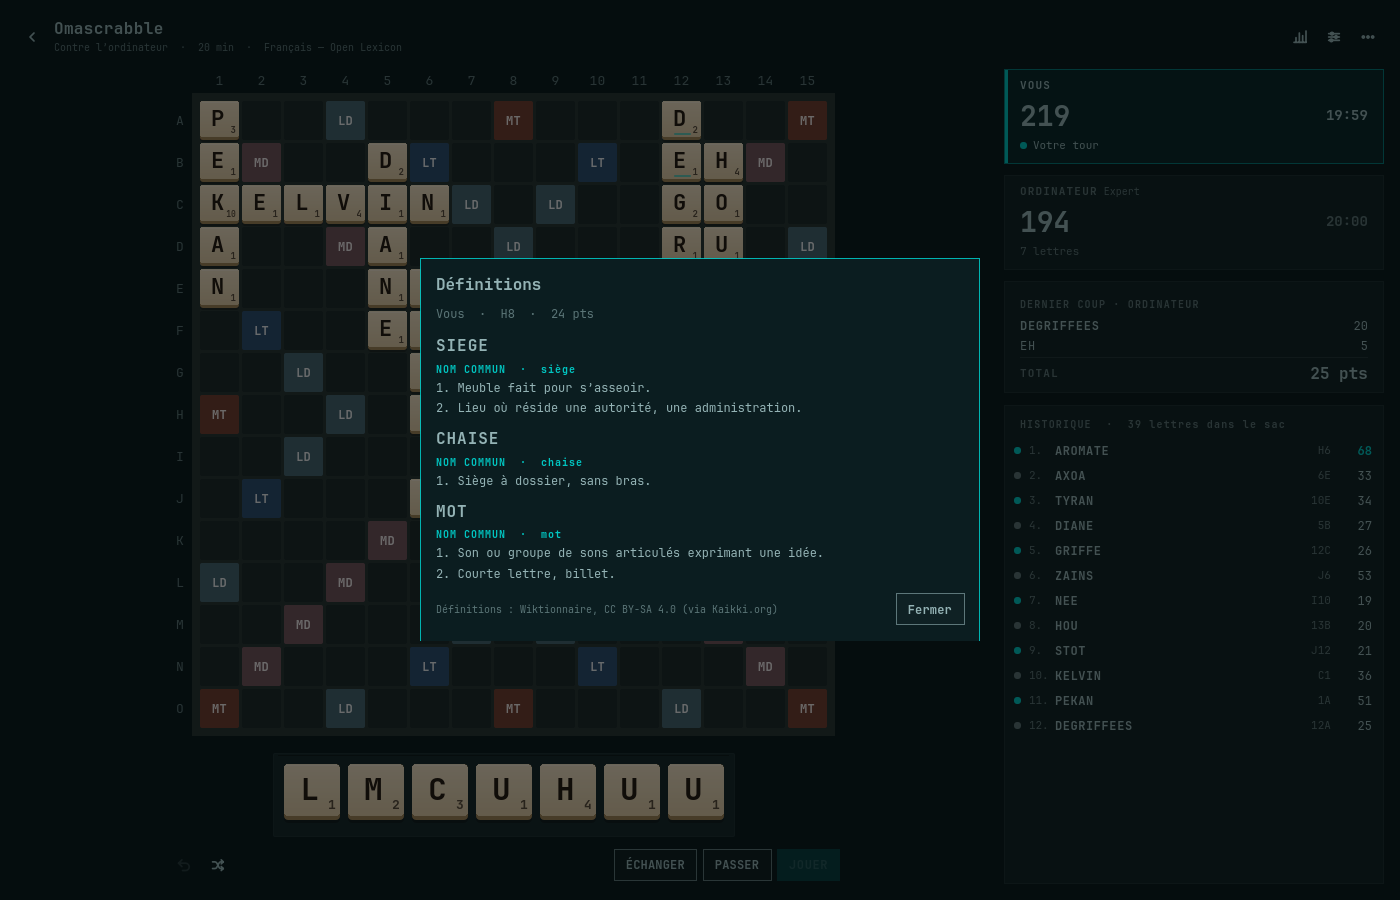
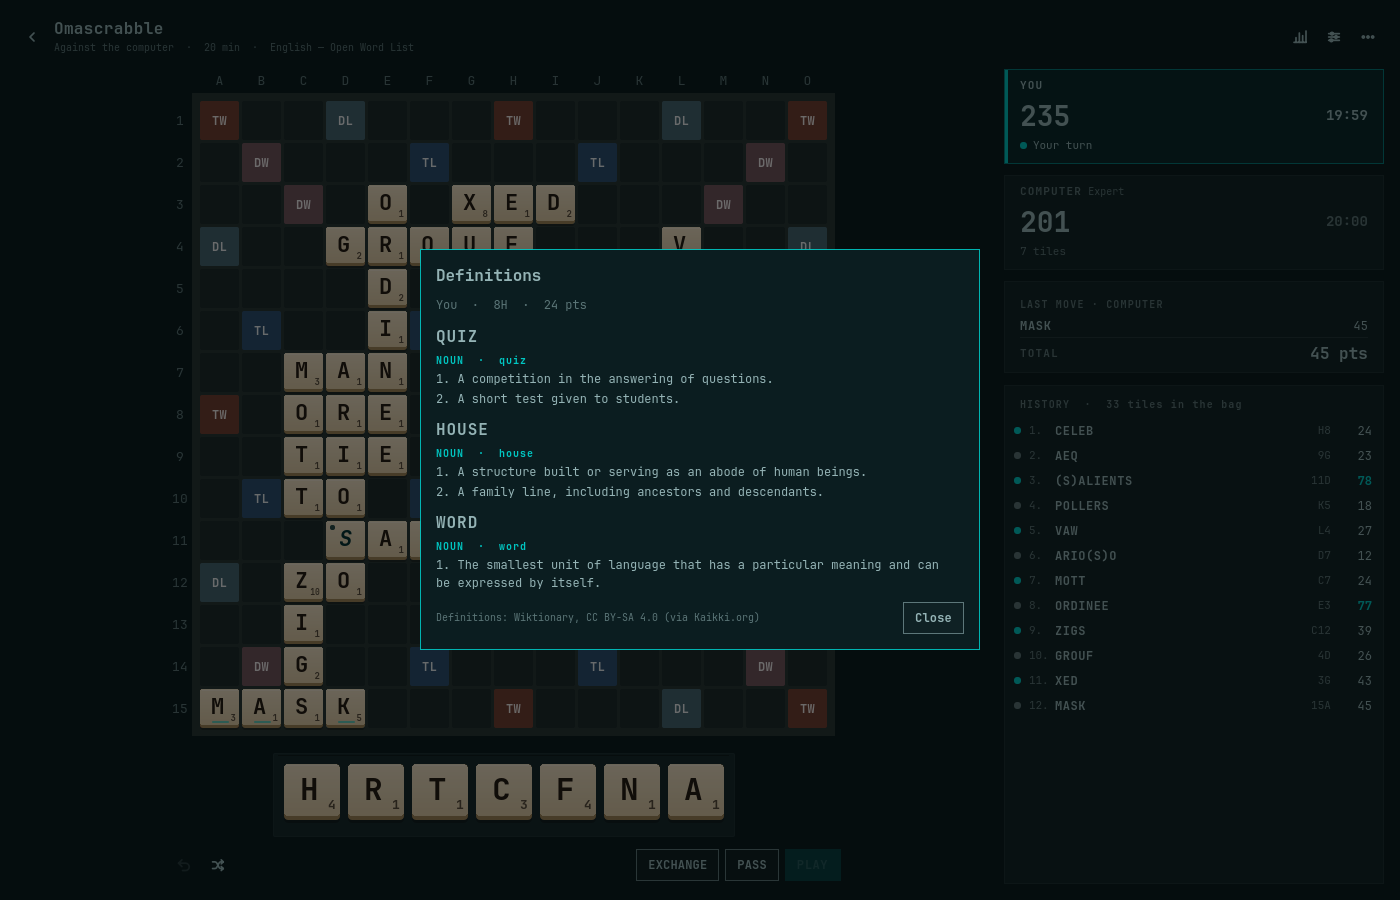
English by default; all screenshots in English
- the interface defaults to English (new installs; a saved choice is
  kept); English is also the fallback for unknown languages and missing
  strings
- screenshots retaken in English, interface and games; the gallery shows
  the end of a game instead of a second practice game
- preview harness: definitions and online scenarios follow PREVIEW_GAMELANG

diff --git a/dev/preview/shell.qml b/dev/preview/shell.qml
@@ -83,8 +83,10 @@ ShellRoot {
       if (!app.saves.ready || app.dictionary.status !== "ready") return
       app.saves.saveSettings(Object.assign({}, app.saves.settings, { online: { name: scenario === "online-host" ? "Ana" : "Ben" } }))
       if (scenario === "online-host") {
+        var en = Quickshell.env("PREVIEW_GAMELANG") === "en"
+        if (en) app.dictionary.load("open-en")
         view.openOnline("invite")
-        app.online.invite({ mode: "online", gameLanguage: "fr", dictionary: "open-fr", timeMinutes: 0, validation: "immediate", challengePenalty: "none" })
+        app.online.invite({ mode: "online", gameLanguage: en ? "en" : "fr", dictionary: en ? "open-en" : "open-fr", timeMinutes: 0, validation: "immediate", challengePenalty: "none" })
         onlineStage = "invited"
       } else {
         view.openOnline("join")
@@ -379,7 +381,10 @@ ShellRoot {
                                                       config: { gameLanguage: "en", dictionary: "open-en", timeMinutes: 25, validation: "challenge" } })
         if (sc === "exchange") view.openExchange()
         if (sc === "practice") c.requestHint()
-        if (sc === "words" || sc === "words-missing") view.openWords(["SIEGE", "CHAISE", "MOT"], "Vous  ·  H8  ·  24 pts")
+        if (sc === "words" || sc === "words-missing") {
+          if (gameDict === "open-en") view.openWords(["QUIZ", "HOUSE", "WORD"], "You  ·  8H  ·  24 pts")
+          else view.openWords(["SIEGE", "CHAISE", "MOT"], "Vous  ·  H8  ·  24 pts")
+        }
         if (sc === "words-missing" && Quickshell.env("PREVIEW_DEFS_INSTALL") !== "") app.definitions.install(Quickshell.env("PREVIEW_DEFS_INSTALL"))
         return
       }

diff --git a/Scrabble.qml b/Scrabble.qml
@@ -190,7 +190,7 @@ Item {
           Text {
             width: parent.width
             wrapMode: Text.WordWrap
-            text: I18n.t(I18n.resolveLanguage(appLoader.item ? appLoader.item.saves.settings.language : "fr", Qt.locale().name), "boot.failed.title")
+            text: I18n.t(I18n.resolveLanguage(appLoader.item ? appLoader.item.saves.settings.language : "en", Qt.locale().name), "boot.failed.title")
             color: Color.foreground
             font.family: Style.font.family
             font.pixelSize: Style.font.display
@@ -199,7 +199,7 @@ Item {
           Text {
             width: parent.width
             wrapMode: Text.WordWrap
-            text: I18n.t(I18n.resolveLanguage(appLoader.item ? appLoader.item.saves.settings.language : "fr", Qt.locale().name), "boot.failed.text")
+            text: I18n.t(I18n.resolveLanguage(appLoader.item ? appLoader.item.saves.settings.language : "en", Qt.locale().name), "boot.failed.text")
             color: Qt.rgba(Color.foreground.r, Color.foreground.g, Color.foreground.b, 0.7)
             font.family: Style.font.family
             font.pixelSize: Style.font.body
@@ -220,7 +220,7 @@ Item {
             Text {
               id: retryLabel
               anchors.centerIn: parent
-              text: I18n.t(I18n.resolveLanguage(appLoader.item ? appLoader.item.saves.settings.language : "fr", Qt.locale().name), "common.retry")
+              text: I18n.t(I18n.resolveLanguage(appLoader.item ? appLoader.item.saves.settings.language : "en", Qt.locale().name), "common.retry")
               color: Color.background
               font.family: Style.font.family
               font.pixelSize: Style.font.body

diff --git a/components/Theme.qml b/components/Theme.qml
@@ -16,7 +16,7 @@ QtObject {
   // Presentation context: palette, metrics and the interface language.
   // Every component already receives the theme, so translations ride along:
   // theme.t("key", { … }). Bindings re-evaluate when `language` changes.
-  property string language: "fr"
+  property string language: "en"
   function t(key, args) { return I18n.t(theme.language, key, args) }
 
   property string appearance: "omarchy"

diff --git a/README.md b/README.md
@@ -5,7 +5,7 @@ A classic Scrabble game, in French or English, for **Omarchy Quattro**, built as
 browser, no Electron, no server, fully offline.
 
 <p align="center">
-  <img src="preview.png" alt="A French game in practice mode: the board, the rack, a suggested move, the score panel and the move history" width="900">
+  <img src="preview.png" alt="An English game in practice mode: the board, the rack, a suggested move, the score panel and the move history" width="900">
 </p>
 
 ```bash
@@ -28,8 +28,8 @@ omarchy-shell shell toggle omascrabble
   Champion — that sees only what a player may see, with rack values tuned for
   each language.
 - Keyboard-first, mouse and drag-and-drop too; follows the Omarchy theme.
-- French or English interface (or follow the system language), independent
-  of the game language.
+- English or French interface (English by default, or follow the system
+  language), independent of the game language.
 
 > Independent community project. SCRABBLE® is a trademark of its respective
 > owners; this game is neither affiliated with nor endorsed by them, and uses
@@ -40,14 +40,14 @@ omarchy-shell shell toggle omascrabble
 <table>
   <tr>
     <td width="50%"><img src="docs/screenshots/home.png" alt="Home screen with the OMA SCRABBLE tile logo"><br><sub>Home screen</sub></td>
-    <td width="50%"><img src="docs/screenshots/english.png" alt="An English game in practice mode, with a suggested move"><br><sub>An English game (practice mode)</sub></td>
+    <td width="50%"><img src="docs/screenshots/end.png" alt="End of a game against the computer: scores, statistics and every word played"><br><sub>End of a game against the computer</sub></td>
   </tr>
   <tr>
     <td width="50%"><img src="docs/screenshots/online-game.png" alt="An online game against a friend, waiting for their move"><br><sub>Online, against a friend on another computer</sub></td>
     <td width="50%"><img src="docs/screenshots/online-invite.png" alt="Inviting a friend from the friends list or with a link"><br><sub>Invite a friend: from your friends list, or with a link</sub></td>
   </tr>
   <tr>
-    <td width="50%"><img src="docs/screenshots/definitions.png" alt="Definitions dialog showing Wiktionnaire entries for the words of a move"><br><sub>Word definitions (optional pack)</sub></td>
+    <td width="50%"><img src="docs/screenshots/definitions.png" alt="Definitions dialog showing Wiktionary entries for the words of a move"><br><sub>Word definitions (optional pack)</sub></td>
     <td width="50%"><img src="docs/screenshots/settings.png" alt="Settings, Online section: name, invitations, friends"><br><sub>Settings</sub></td>
   </tr>
 </table>
